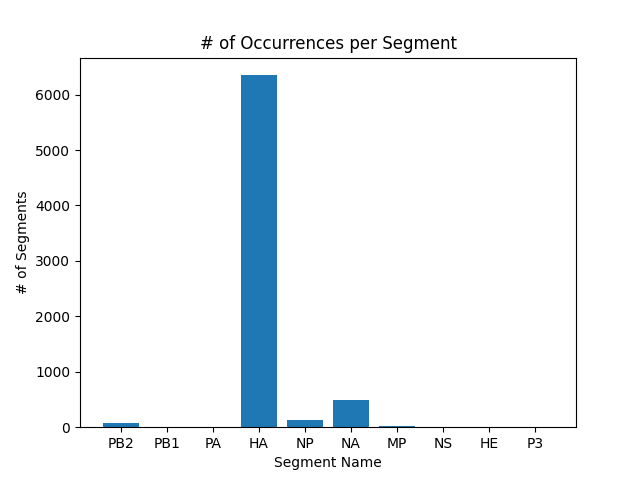
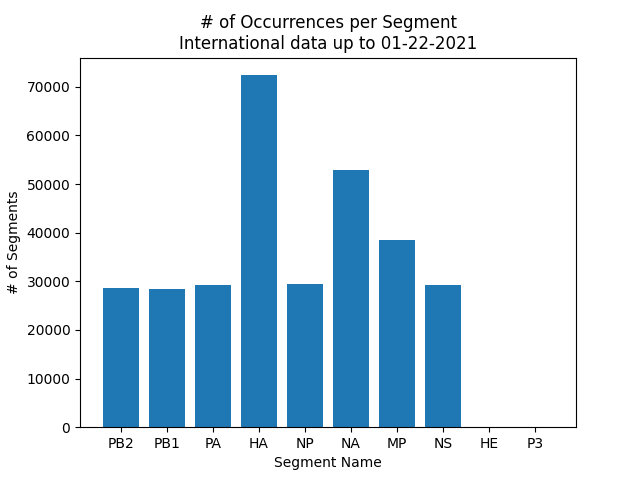
Added args and restructured some files - added path argument to specify data directory - added extension argument to specify data extension - fixed a bug in read_gisaid_file which was causing   it to only read the first segment of a strain

diff --git a/src/analysis.py b/src/analysis.py
@@ -1,33 +1,66 @@
+# Python imports
+import argparse
+import os
 # Third party imports
 import matplotlib.pyplot as plt
 # My imports
 import helpers
 
-def analyze_segment_count():
-    print('We are going to collect all the data located in ml_h3n2/sample_data/*.fasta')
-    sample_data = helpers.get_all_data("../sample_data", ".fasta")
+def analyze_segment_count(datapath, ext):
+    # Collect data
+    print('Collecting data from ml_h3n2/sample_data/*.fasta')
+    sample_data = helpers.get_all_data(directory=datapath, extension=ext)
     print(f'Collected {len(sample_data)} unique strains')
 
+    # Count segments
     segment_count={'PB2':0, 'PB1':0, 'PA':0, 'HA':0, 'NP':0, 'NA':0, 'MP':0, 'NS':0, 'HE':0, 'P3':0}
     for strain in sample_data.values():
         for key in strain.segments:
             segment_count[key] += 1
-
+    print()
     print('Found the following number of occurences for each segment:')
     print(segment_count)
+    print()
 
+    # Set graph data
     plt.bar(range(len(segment_count)), list(segment_count.values()), align='center')
     plt.xticks(range(len(segment_count)), list(segment_count.keys()))
-    plt.title('# of Occurrences per Segment')
+    # Set graph titles and labels
+    plt.title('# of Occurrences per Segment\nInternational data up to 01-22-2021')
     plt.ylabel('# of Segments')
     plt.xlabel('Segment Name')
+    # Generate graph
     plt.savefig('../figures/segment_count')
     print('Figure saved to ml_h3n2/figures/segment_count.png')
     plt.show()
     print(f'We can see that {segment_count["HA"]} of {len(sample_data)} samples include the hemaggluttinin (HA) segment.')
+    print()
+
+def parse_arguments():
+    parser = argparse.ArgumentParser()
+    parser.add_argument('-p', default='../sample_data', type=dir_path,
+        help="Path to directory containing virus data.")
+    parser.add_argument('-e', default='.fasta', type=is_extension,
+        help="File extension for data files.")
+
+    return parser.parse_args()
+
+def dir_path(string):
+    if os.path.isdir(string):
+        return string
+    else:
+        argparse.ArgumentError(f'Invalid path {string}')
+
+def is_extension(string):
+    if string[0] == '.' and string[1:].isalpha():
+        return string
+    else:
+        argparse.ArgumentError(f'Invalid extension {string}')
 
 def main():
-    analyze_segment_count()
+    parsed_args = parse_arguments()
+
+    analyze_segment_count(parsed_args.p, parsed_args.e)
 
 if __name__ == "__main__":
     main()

diff --git a/src/helpers.py b/src/helpers.py
@@ -17,17 +17,19 @@ def read_gisaid_file(filename):
     # Index from 1 onwards because the first '>' throws things off a bit.
     segments = file_contents.split('>')[1:]
     for segment in segments:
-        temp_name, temp_date, temp_segname, temp_segdata = segment.split('|')
-        # We are using the name as a key.
-        # If it doesn't exist, initialize it.
-        if not temp_name in allData:
-            tempStrain = strain_class.DnaData(temp_name, temp_date)
-            allData[temp_name] = tempStrain
+        try:
+            temp_name, temp_date, temp_segname, temp_segdata = segment.split('|')
+            # We are using the name as a key.
+            # If it doesn't exist, initialize it.
+            if not temp_name in allData:
+                tempStrain = strain_class.DnaData(temp_name, temp_date)
+                allData[temp_name] = tempStrain
             allData[temp_name].segments[temp_segname] = temp_segdata
-
+        except:
+            print(f'Found bad data in {filename}')
     return allData
 
-def get_all_data(directory, extension):
+def get_all_data(directory="../sample_data", extension=".fasta"):
     allData = {}
     for file in os.listdir(directory):
         if file.endswith(extension):
